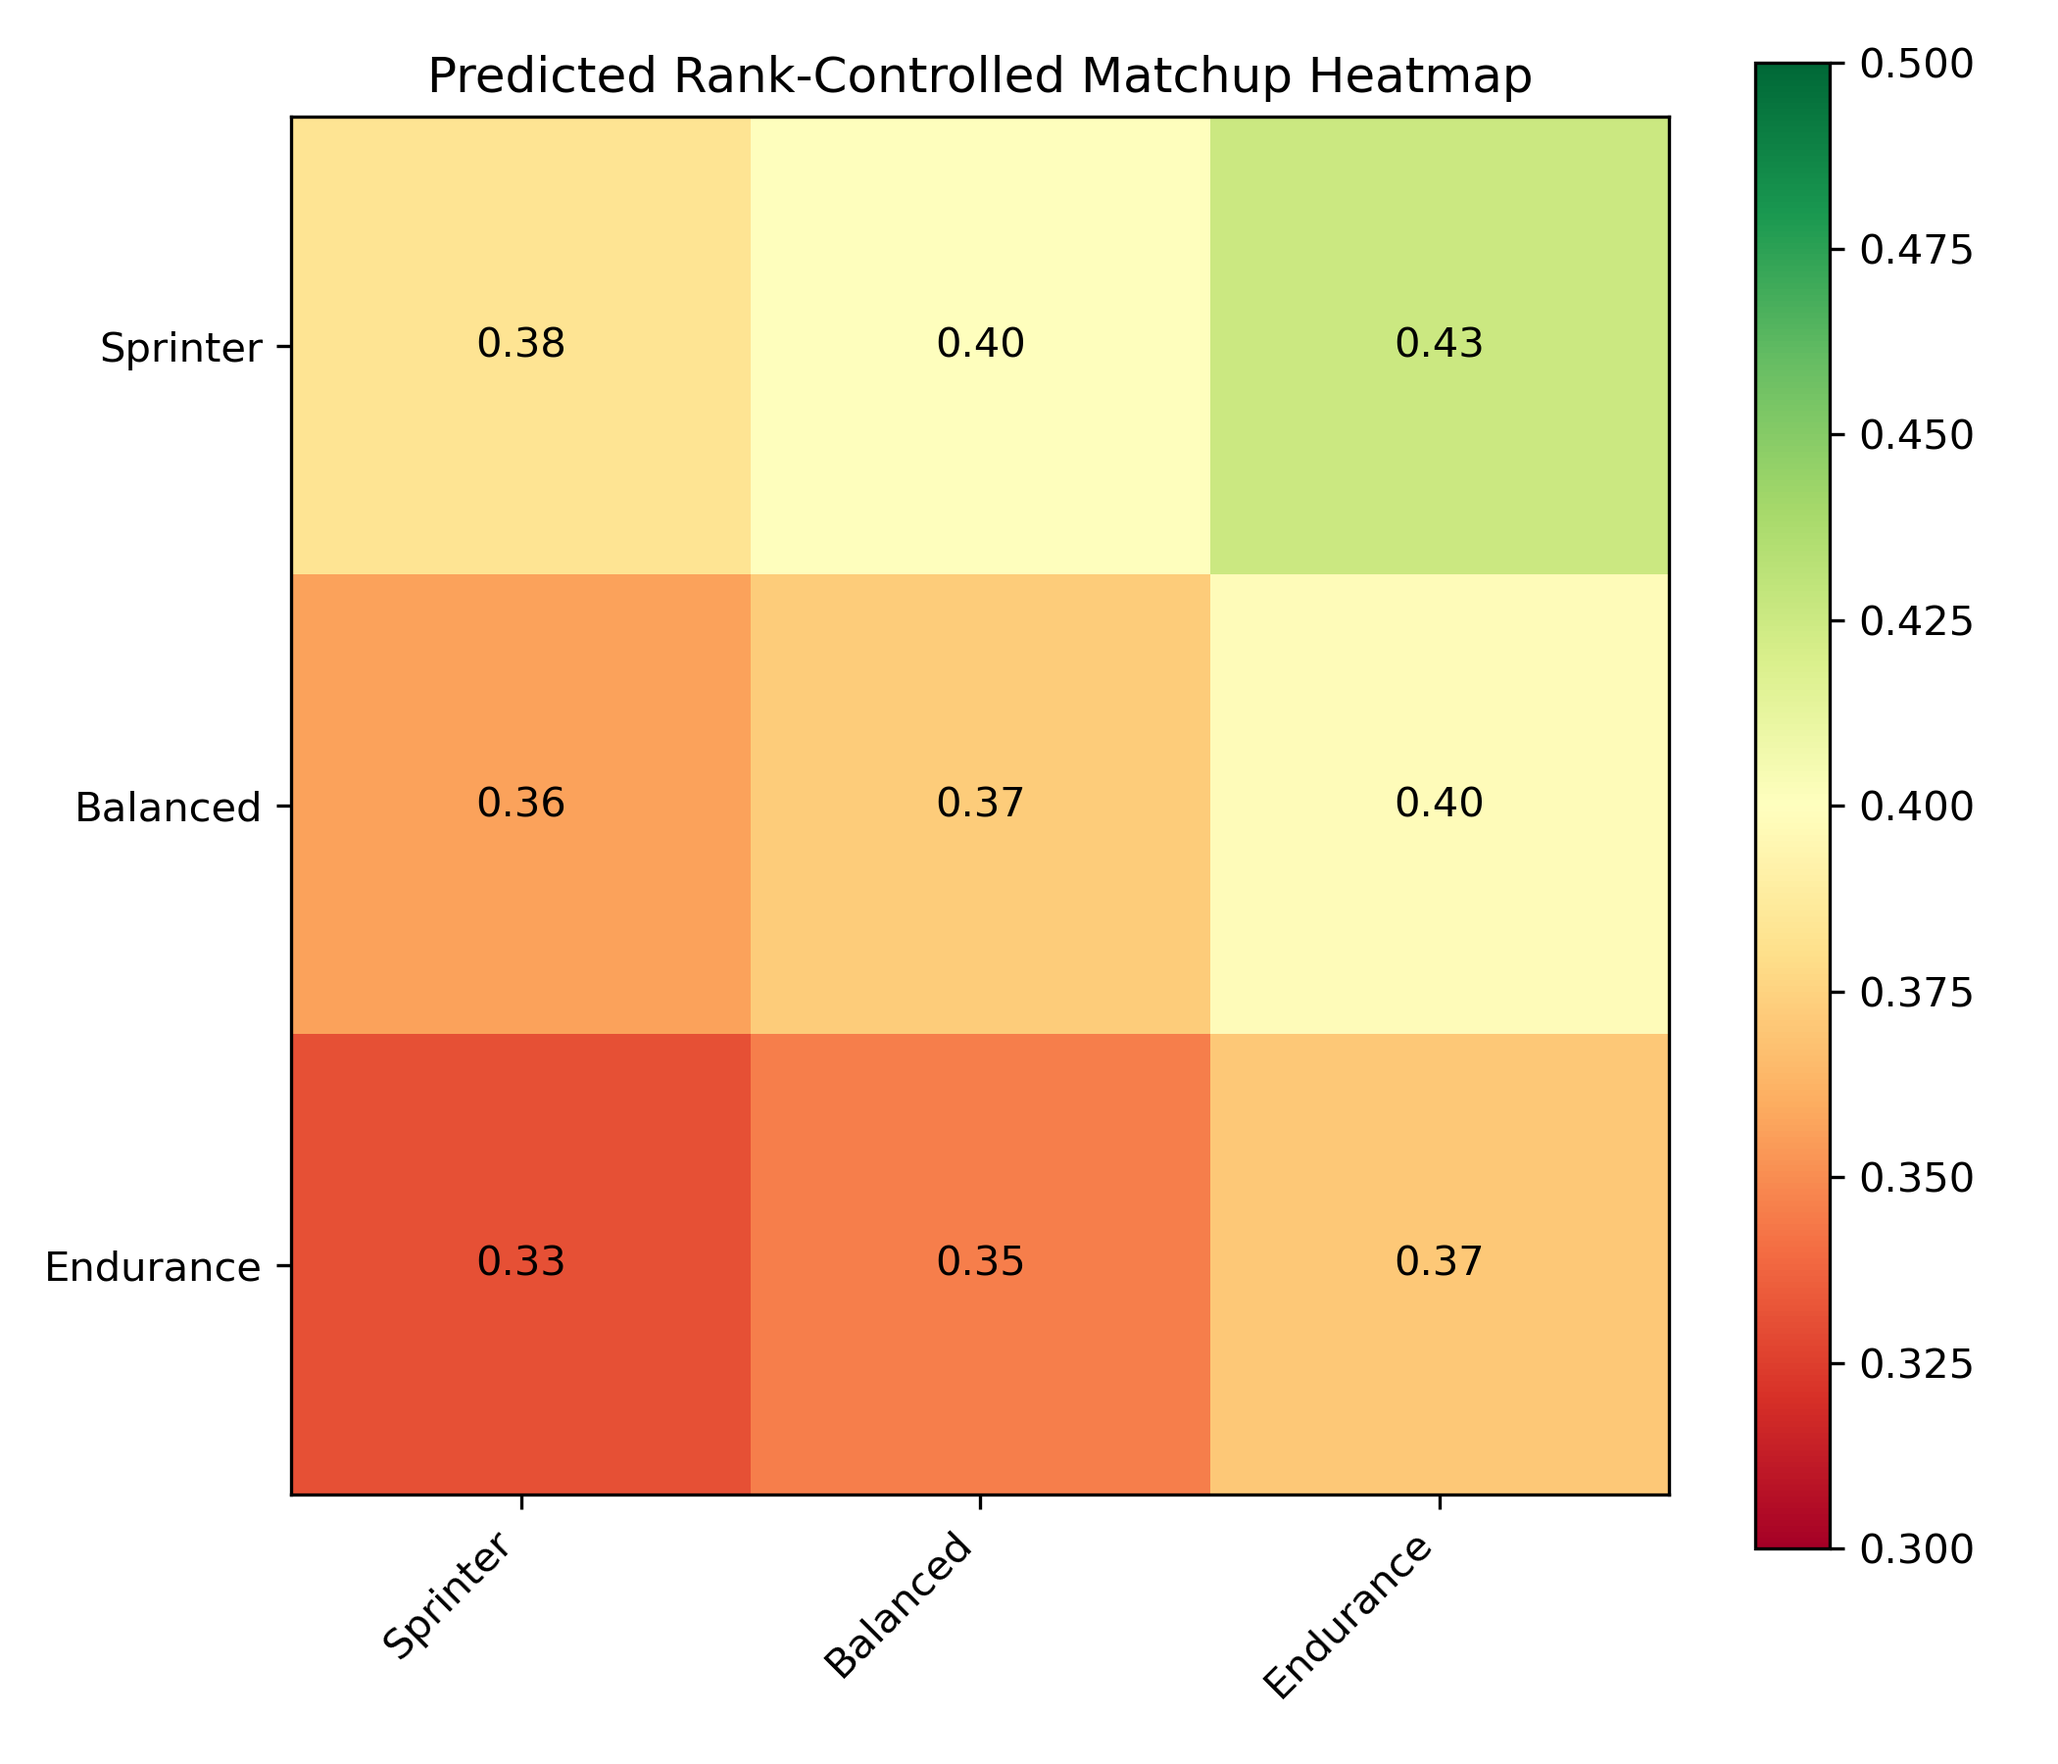
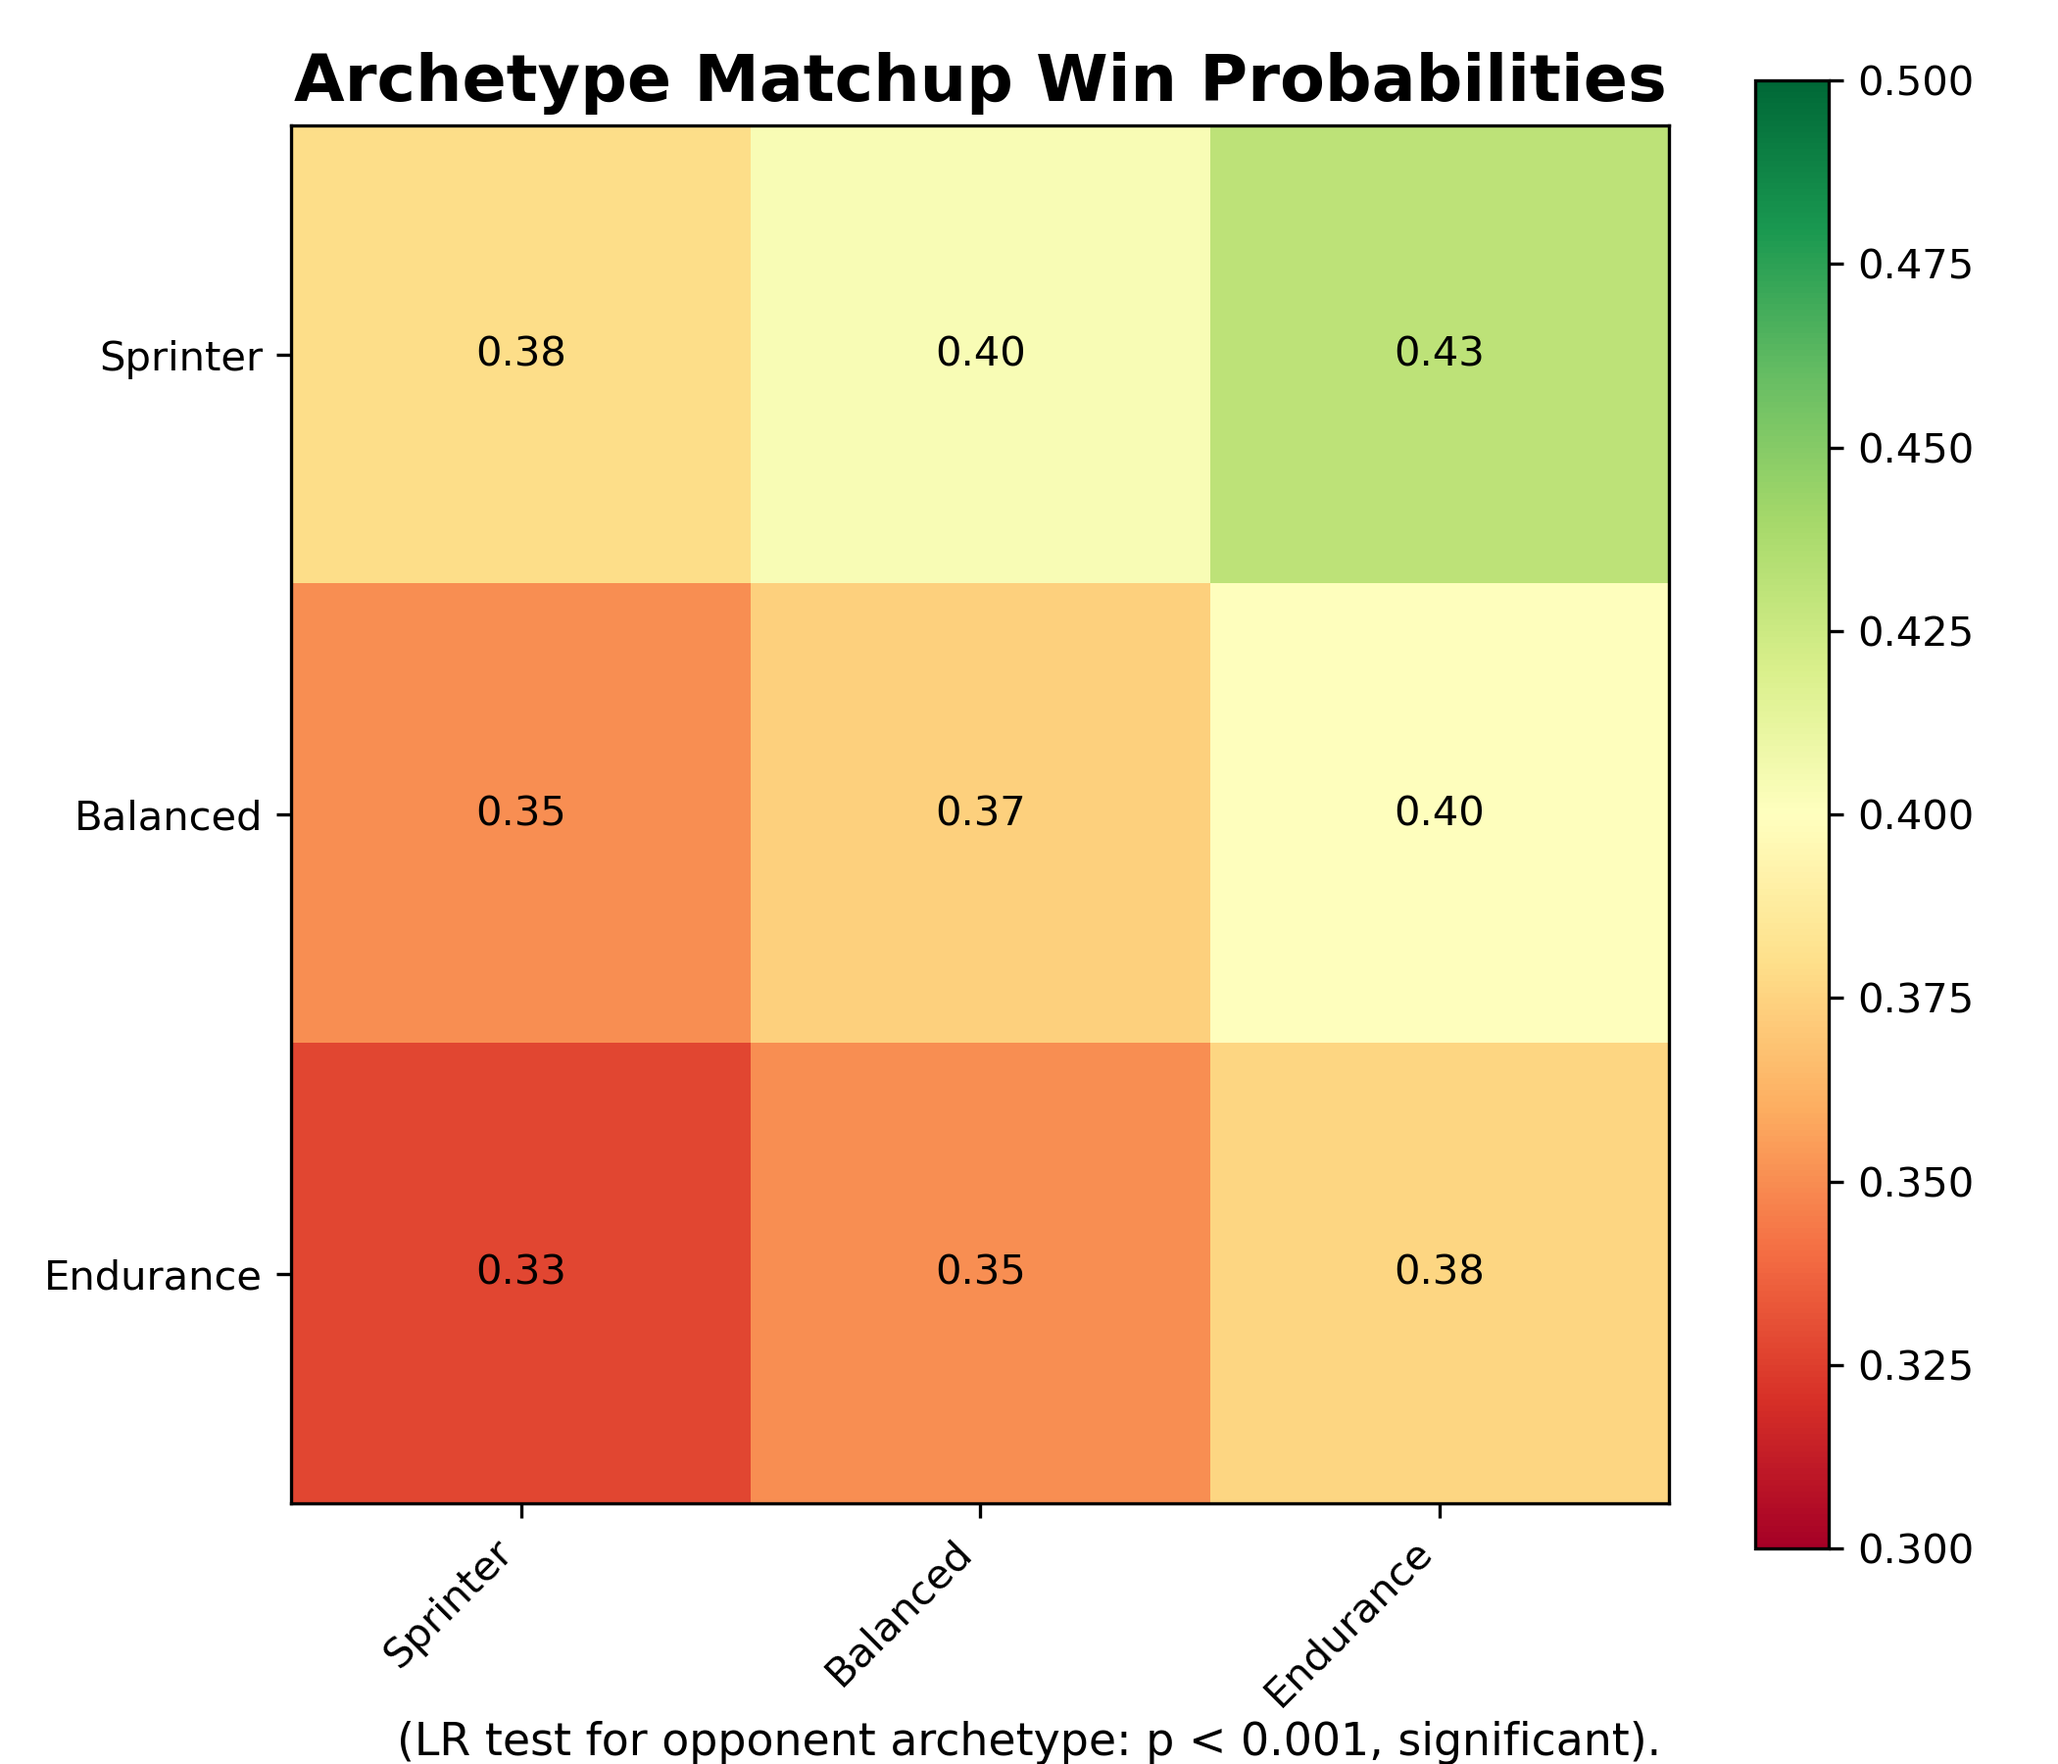
added some final touches to figures

diff --git a/code/atp_match_length_analysis/8_logit_rank_control_analysis.py b/code/atp_match_length_analysis/8_logit_rank_control_analysis.py
@@ -96,11 +96,22 @@ plt.show()
 # Make sure opponent_rank exists and is numeric (skip if already numeric)
 df["opponent_rank"] = pd.to_numeric(df["opponent_rank"], errors="coerce")
 
-# Fit an extended model that knows about the opponent as well
+# Full model: player + opponent archetype
 matchup_model = smf.logit(
-    "won ~ player_archetype + opponent_archetype + player_rank + opponent_rank",
+    "won ~ player_archetype + opponent_archetype",
     data=df
 ).fit(disp=False)
+
+# Reduced model: player archetype only
+reduced_matchup = smf.logit(
+    "won ~ player_archetype",
+    data=df
+).fit(disp=False)
+
+# Likelihood-ratio test
+lr_stat = 2 * (matchup_model.llf - reduced_matchup.llf)
+df_diff = matchup_model.df_model - reduced_matchup.df_model
+p_matchup = 1 - chi2.cdf(lr_stat, df_diff)
 
 # Define the order for rows/cols
 archetype_order = ["Sprinter", "Balanced", "Endurance"]
@@ -108,15 +119,11 @@ archetype_order = ["Sprinter", "Balanced", "Endurance"]
 present = pd.unique(pd.concat([df["player_archetype"], df["opponent_archetype"]], ignore_index=True))
 archetypes_for_grid = [a for a in archetype_order if a in present] + [a for a in present if a not in archetype_order]
 
-# Predict at fixed ranks (use means so we isolate archetype effects)
-mean_player_rank = df["player_rank"].mean()
-mean_opp_rank = df["opponent_rank"].mean()
-
 grid = pd.DataFrame(
-    [(pa, oa, mean_player_rank, mean_opp_rank)
+    [(pa, oa)
      for pa in archetypes_for_grid
      for oa in archetypes_for_grid],
-    columns=["player_archetype", "opponent_archetype", "player_rank", "opponent_rank"]
+    columns=["player_archetype", "opponent_archetype"]
 )
 
 grid["pred_prob"] = matchup_model.predict(grid)
@@ -130,7 +137,11 @@ plt.figure(figsize=(7, 6))
 im = plt.imshow(mat.values, vmin=0.3, vmax=0.5, cmap="RdYlGn")
 plt.xticks(np.arange(len(archetypes_for_grid)), archetypes_for_grid, rotation=45, ha="right")
 plt.yticks(np.arange(len(archetypes_for_grid)), archetypes_for_grid)
-plt.title("Predicted Rank-Controlled Matchup Heatmap")
+plt.title(
+    "Archetype Matchup Win Probabilities",
+    fontsize=16,
+    weight="bold"
+)
 cbar = plt.colorbar(im)
 
 # Annotate each cell with the predicted probability
@@ -139,5 +150,16 @@ for i in range(mat.shape[0]):
         plt.text(j, i, f"{mat.iat[i, j]:.2f}", ha="center", va="center")
 
 plt.tight_layout()
+
+p_text = "p < 0.001" if p_matchup < 0.001 else f"p = {p_matchup:.4f}"
+significance = "significant" if p_matchup < 0.05 else "not significant"
+
+plt.figtext(
+    0.5, 0.005,
+    f"(LR test for opponent archetype: {p_text}, {significance}).",
+    ha="center",
+    fontsize=11
+)
+
 plt.savefig("8c_rank_controlled_matchup_heatmap.png", dpi=300)
 plt.show()
